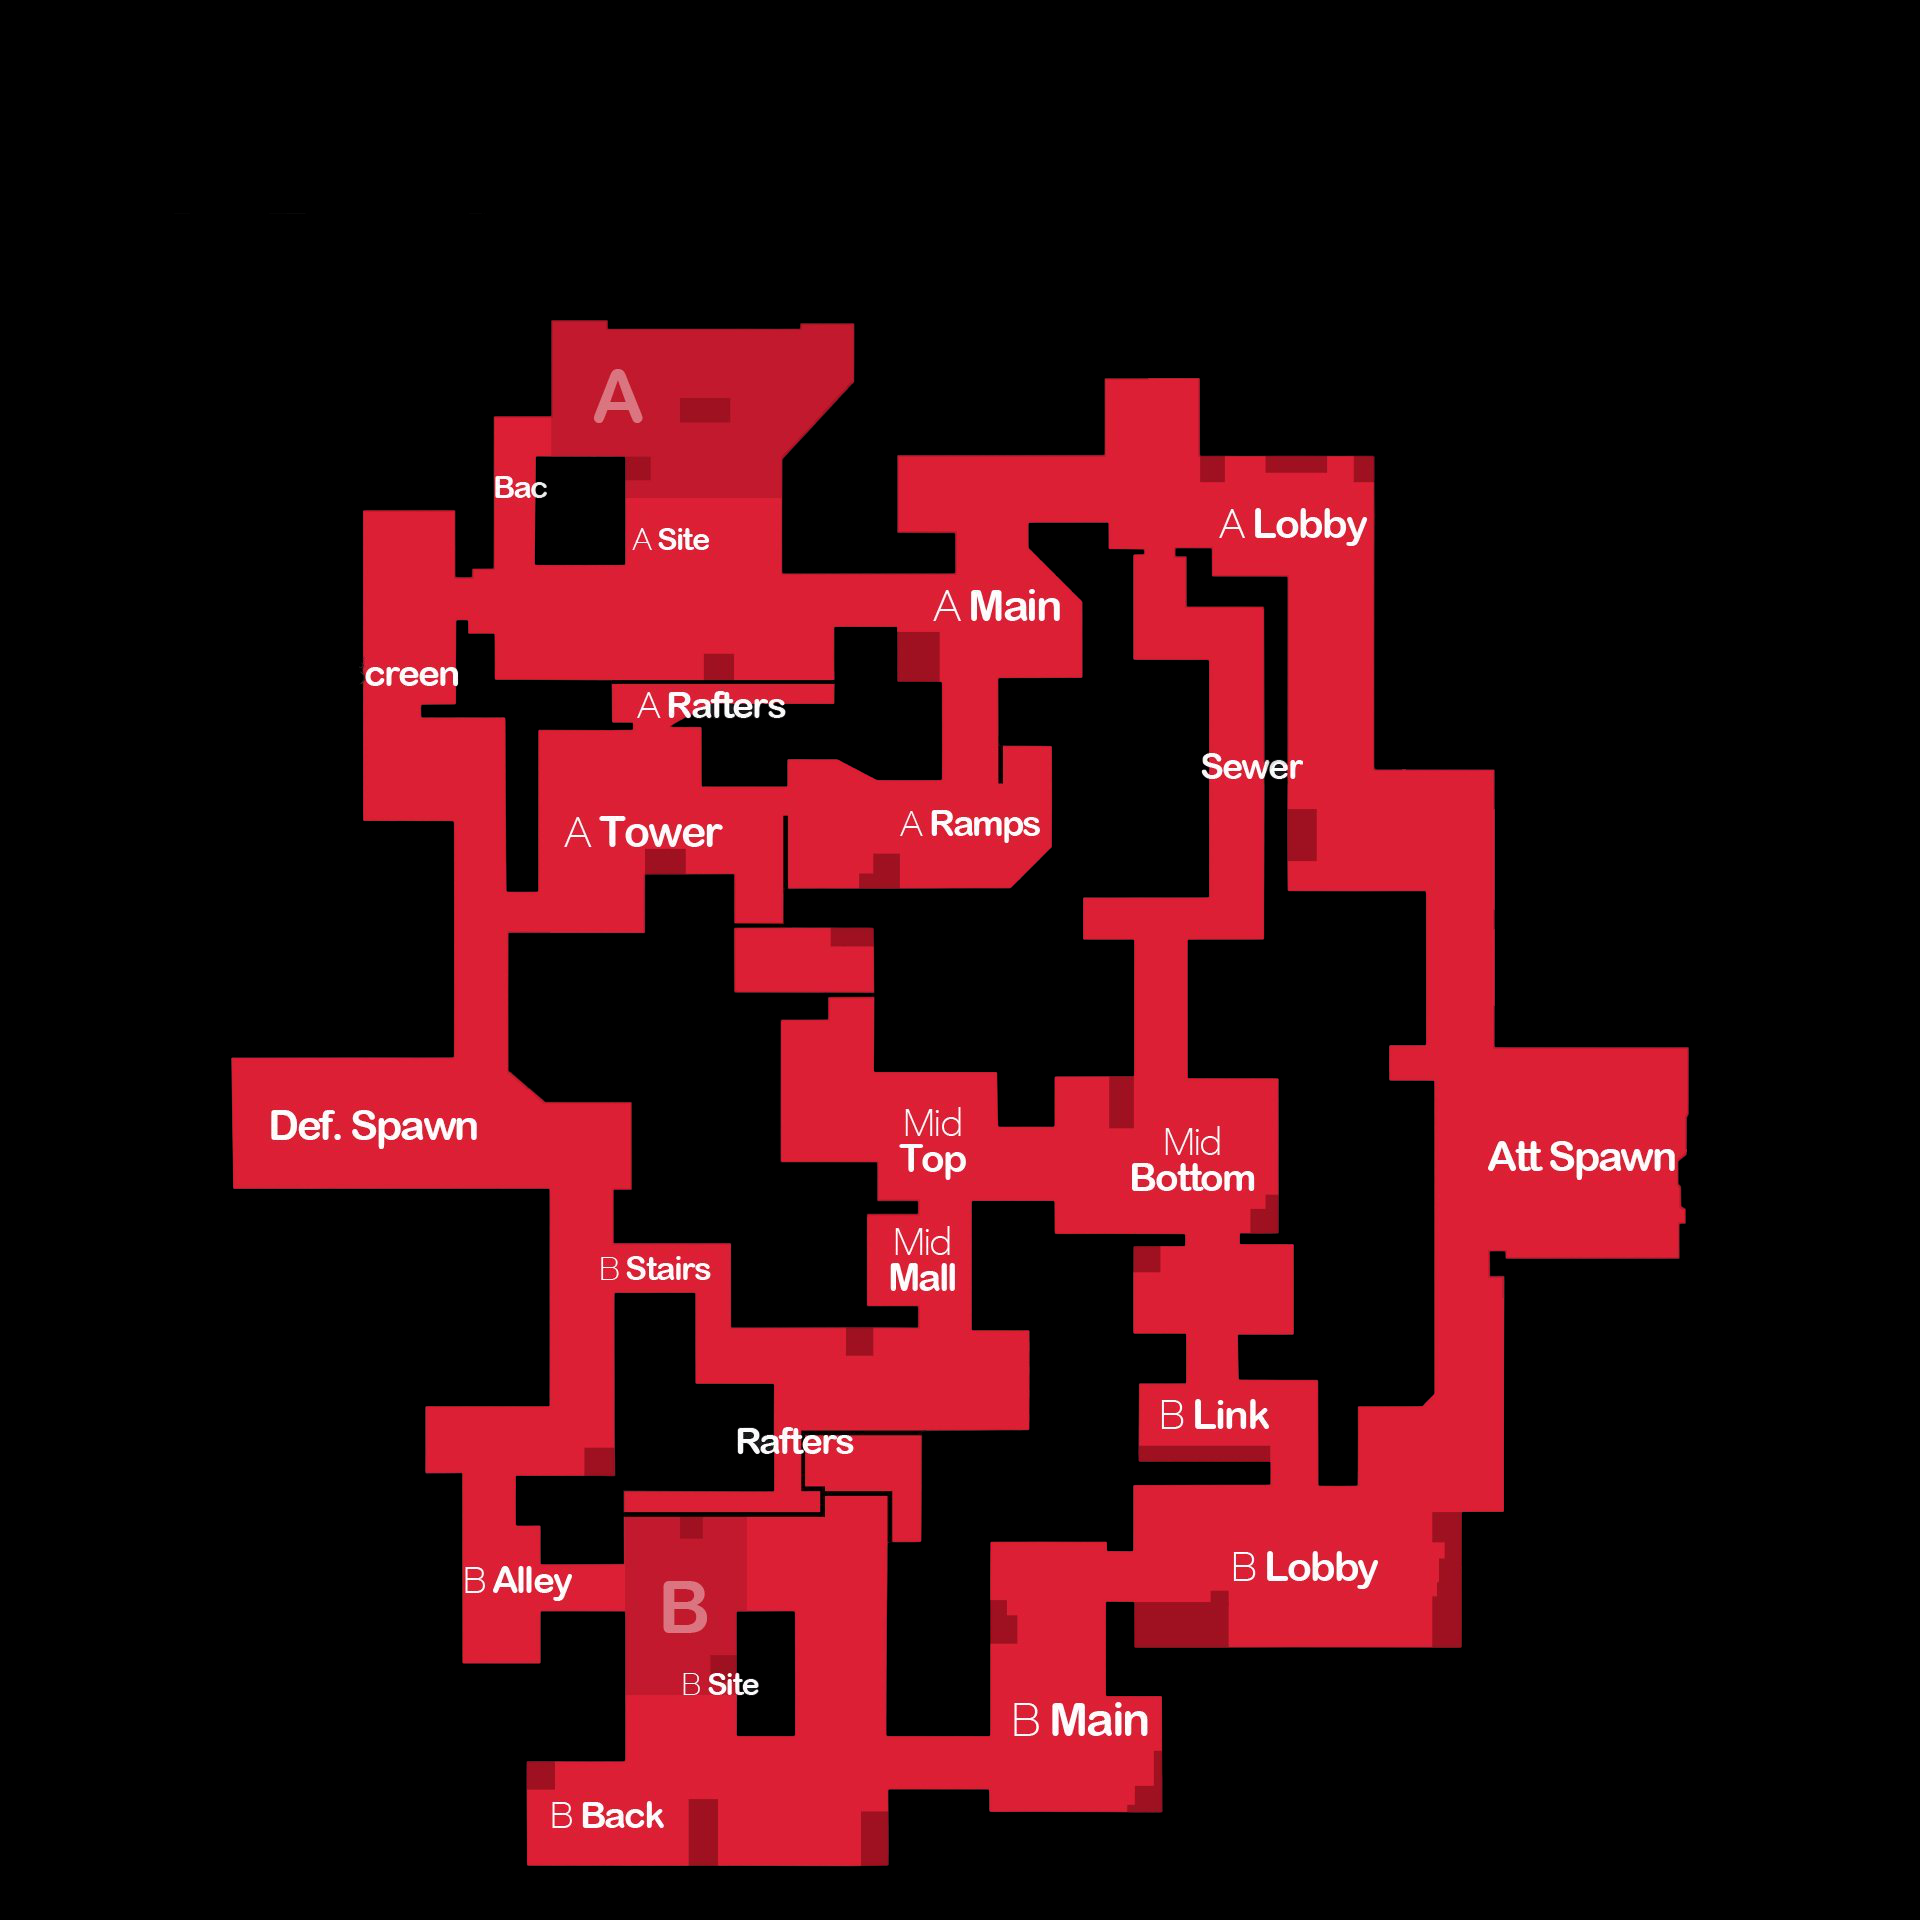
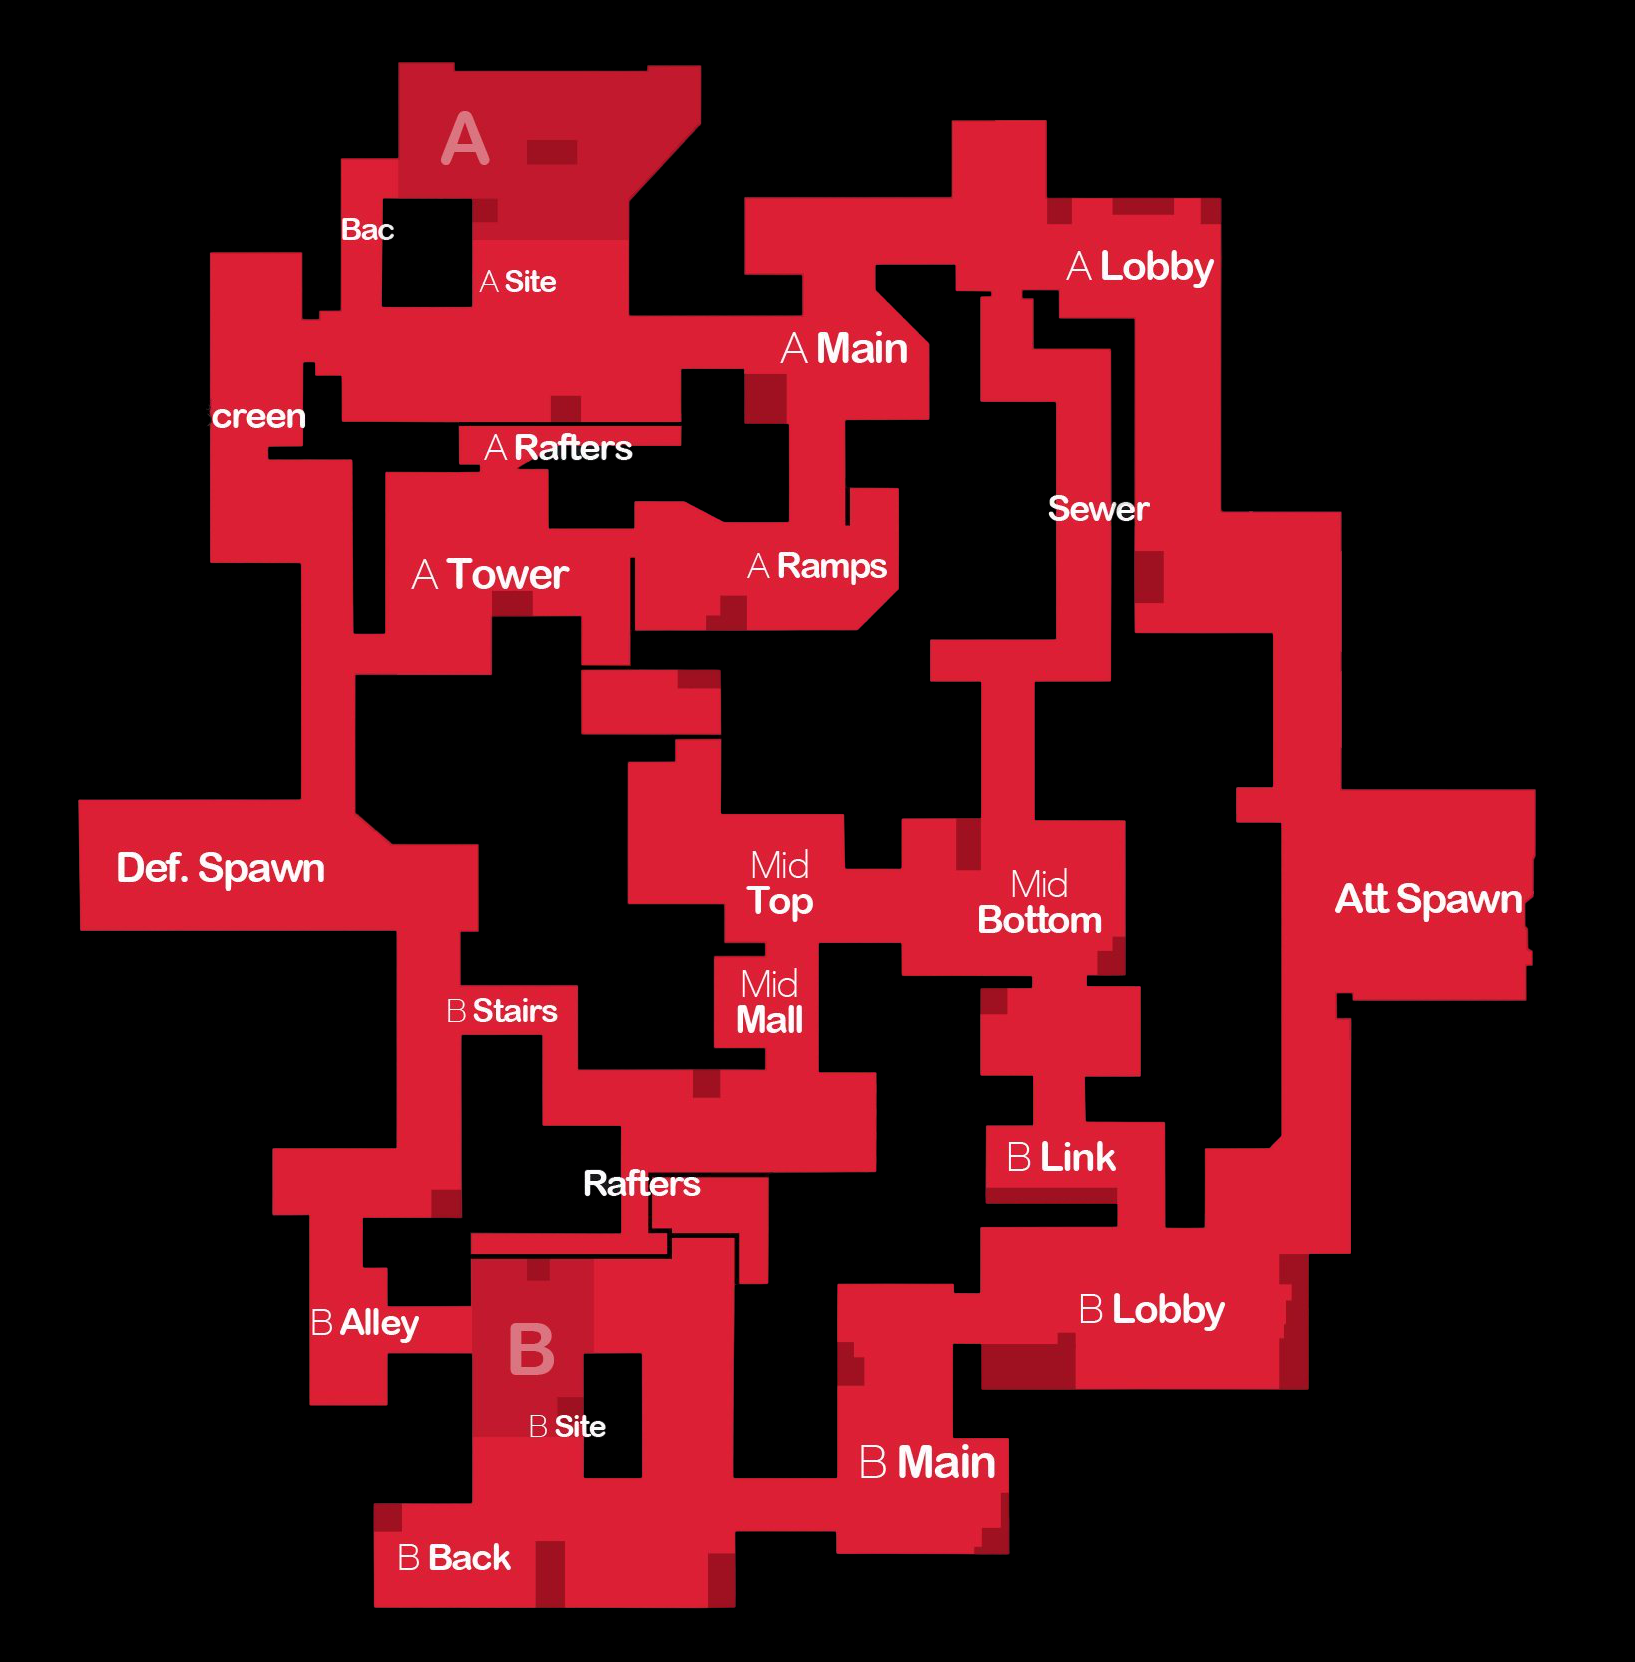
adds borders to agents and black backgroud

diff --git a/src/Map.js b/src/Map.js
@@ -52,8 +52,8 @@ export default class Map extends React.Component {
 			})
 		} else if (window.screen.height <= 1080) {
 			this.setState({
-				canvasHeight: 750,
-				canvasWidth: 750
+				canvasHeight: 850,
+				canvasWidth: 860
 			})
 		} else {
 			this.setState({
@@ -65,11 +65,9 @@ export default class Map extends React.Component {
 
 	colorChanger(e) {
 		if (e.target.className.includes("blue")) {
-			console.log("here1")
 			this.setState({color: "#0000ff"})
-		} else if (e.target.className.includes("red")) {
-			console.log("here2")
-			this.setState({color: "#ff0000"})
+		} else if (e.target.className.includes("green")) {
+			this.setState({color: "#008000"})
 		} else if (e.target.className.includes("yellow")) {
 			this.setState({color: "#ffff00"})
 		}
@@ -115,10 +113,10 @@ export default class Map extends React.Component {
 				</div>
 				<div className="buttons"> 
 						<button className="button blue" onClick={this.colorChanger}></button>
-						<button className="button red" onClick={this.colorChanger}></button>
+						<button className="button green" onClick={this.colorChanger}></button>
 						<button className="button yellow" onClick={this.colorChanger}></button>
-						<button className="reset-button" onClick={this.clearBoard}> clear </button>
-						<button className="reset-button" onClick={this.undoLast}> undo </button>
+						<button className="reset-button" onClick={this.clearBoard}> Clear </button>
+						<button className="reset-button" onClick={this.undoLast}> Undo </button>
 					</div>
 			</div>
 

diff --git a/src/Icons.js b/src/Icons.js
@@ -6,21 +6,47 @@ import './stylesheets/agents.css'
 
 
 export default function Agents(props) {
-	const nodeRef = React.useRef(null);
+	const nodeRef = React.useRef(Draggable);
+	let icons;
+
 	
-	
-	const icons = props.iconOrder.map( (agent, idx)  => 
-		<Draggable nodeRef={nodeRef} key={idx} >
-				<img ref={nodeRef} draggable="false" src={agent} alt="breach"  style={{width: '2.2em', height: '2.2em' }}onClick={(e) => console.log(nodeRef)} />
-		</Draggable> 
-	)
+
+	// agents prop recieved
+	if (props.agents) {
+		icons = props.iconOrder.map((agent, idx) => {
+			//even: return green icon
+			if (idx % 2 === 0) {
+				return (
+					<Draggable nodeRef={nodeRef} key={idx} >
+						<img ref={nodeRef} draggable="false" src={agent} alt="icon" className="icon-green" onClick={(e) => console.log(nodeRef)} />
+					</Draggable>
+				)
+			}
+			return (
+				<Draggable nodeRef={nodeRef} key={idx} >
+					<img ref={nodeRef} draggable="false" src={agent} alt="icon" className="icon-blue" onClick={(e) => console.log(nodeRef)} />
+				</Draggable>
+			)
+		}
+		)
+	}
+
+	// render normal icons otherwise
+	else {
+		icons = props.iconOrder.map((agent, idx) =>
+			<Draggable nodeRef={nodeRef} key={idx} >
+				<img ref={nodeRef} draggable="false" src={agent} alt="icon" className="icons" onClick={(e) => console.log(nodeRef)} />
+			</Draggable>
+		)
+	}
+
 
 
 
 	return (
 		<div className="grid-container">
 			<h2 className="grid-item-1"> {props.name} </h2>
-			{ icons }
+			{icons}
 		</div>
 	)
 }

diff --git a/src/stylesheets/map.css b/src/stylesheets/map.css
@@ -13,6 +13,13 @@
 .select-button {
 	margin-left: 40px;
 	font-size: 1em;
+	border: 3px solid #aaa;
+	font-weight: 500;
+	border-radius: 15%
+}
+
+.select-button:hover {
+	border-color: white ;
 }
 
 #canvas {
@@ -29,7 +36,7 @@
 	padding: .6em 1.4em .5em .8em;
 	max-width: 100%;
 	box-sizing: border-box;
-	border: 1px solid #aaa;
+	border: 3px solid #aaa;
 	box-shadow: 0 1px 0 1px rgba(0,0,0,.04);
 	border-radius: .5em;
 	-moz-appearance: none;
@@ -47,7 +54,7 @@
 	display: none;
 }
 .select-css:hover {
-	border-color: #888;
+	border-color: white;
 }
 .select-css:focus {
 	border-color: #aaa;
@@ -74,33 +81,39 @@
 	padding-bottom: 20px;
 	margin-top: 10px;
 	border: 2px solid #aaa;
+	font-family: 'Open Sans', sans-serif;
+	font-weight: 600;
 }
 
 .button:hover {
-	border-color: black;
+	border-color: white;
 }
 
 .reset-button {
 	height: 50px;
-	width: 50px;
-	border: 2px solid #aaa;
+	width: 70px;
+	border: 3px solid #aaa;
 	padding-bottom: 1em;
 	margin-top: 1em;
 	text-align: center;
 	font-size: 1em;
 	line-height: 45px;
+	font-family: 'Open Sans', sans-serif;
+	font-weight: 500;
+	border-radius: 15%
+	
 }
 
 .reset-button:hover {
-	border-color: black;
+	border-color: white;
 }
 
 .blue {
 	background: blue;
 }
 
-.red {
-	background: red;
+.green {
+	background: green;
 }
 
 .yellow {

diff --git a/src/App.js b/src/App.js
@@ -11,7 +11,7 @@ import sova from './images/Sova.png';
 import sage from './images/Sage.png';
 import viper from './images/Viper.png';
 import spike from './images/spikeIcon.png'
-
+import smoke from './images/Valorant_Smoke.png'
 
 
 function App() {
@@ -23,13 +23,17 @@ function App() {
 			phoenix, phoenix, sova, sova,
 			sage, sage, viper, viper
 		],
-		name: "Agents"
+		name: "Agents",
+		agents: true
 	}
 
 	const iconProps = {
 		
 		iconOrder: [
-			spike
+			spike, smoke,
+			smoke, smoke, 
+			smoke, smoke,
+			smoke, smoke
 		],
 		name: "Icons"
 	}

diff --git a/src/stylesheets/agents.css b/src/stylesheets/agents.css
@@ -12,6 +12,28 @@
 	grid-column-start: 1;
 	grid-column-end: 3;
 	text-align: center;
-	font-size: 2em;
+	font-size: 2.2em;
+	color: white;
+	text-decoration: underline;
 }
 
+.icons {
+	width: 2.5em;
+	height: 2.5em;
+}
+
+.icon-blue {
+	width: 2.5em;
+	height: 2.5em;
+	border: .18em solid;
+	border-radius: 50%;
+	border-color: blue;
+}
+
+.icon-green {
+	width: 2.5em;
+	height: 2.5em;
+	border: .18em solid;
+	border-radius: 50%;
+	border-color: green;
+}

diff --git a/public/index.html b/public/index.html
@@ -26,7 +26,7 @@
     -->
     <title>React App</title>
   </head>
-  <body>
+  <body style="background-color: black">
     <noscript>You need to enable JavaScript to run this app.</noscript>
     <div id="root"></div>
     <!--
